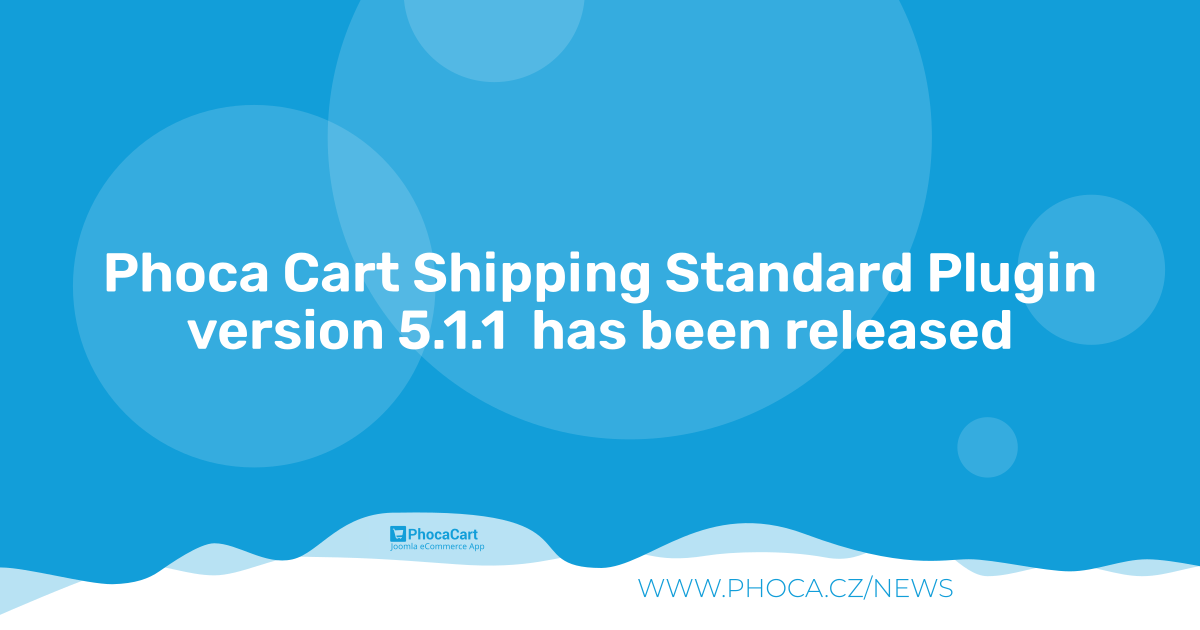
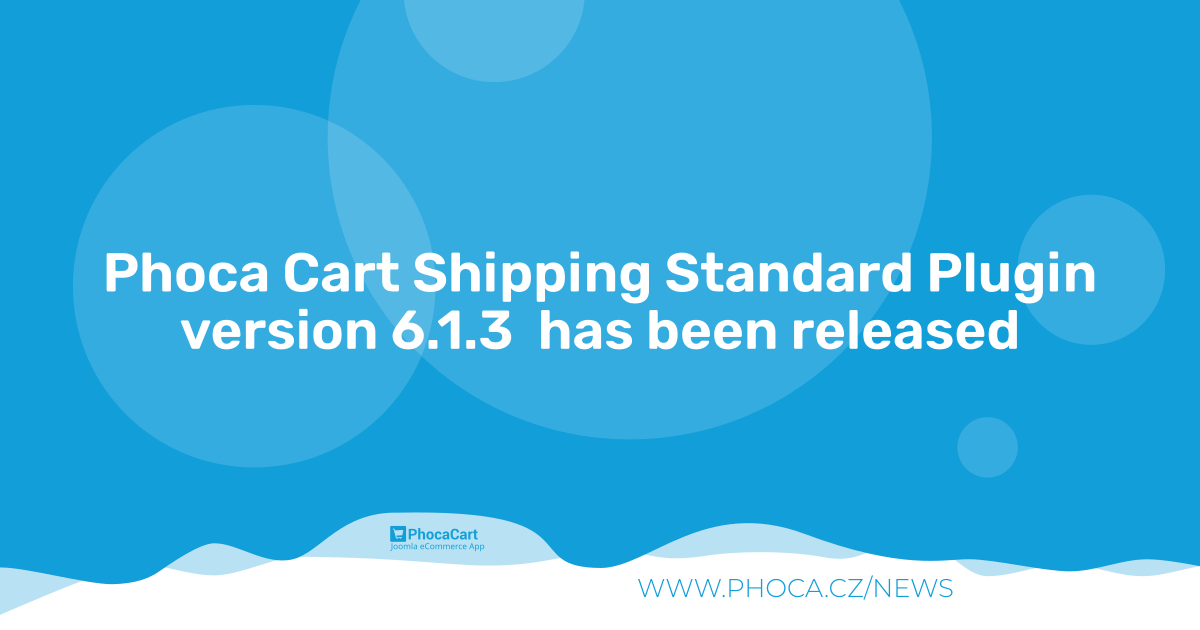
6.1.3

Changed region(s): [[0.1542, 0.4825, 0.8633, 0.573]]

diff --git a/shipping_standard.php b/shipping_standard.php
@@ -21,6 +21,7 @@ JLoader::registerPrefix('Phocacart', JPATH_ADMINISTRATOR . '/components/com_phoc
 class plgPCSShipping_Standard extends CMSPlugin
 {
 	protected $name 	= 'shipping_standard';
+	protected $autoloadLanguage = true;
 
 	function __construct(& $subject, $config) {
 		parent :: __construct($subject, $config);

diff --git a/README.MD b/README.MD
@@ -20,81 +20,69 @@ Our compliance with the principles of free and open-source software is establish
 
 *This repository is a shared community resource dedicated to the global open-source ecosystem.*
 
+### Community Feedback & Contributions
 
-## Project page
+We welcome your feedback and active involvement. You can join the development and follow the progress on public, independent GitHub pages at [https://github.com/PhocaCz](https://github.com/PhocaCz).
+Any feedback, bug reports, feature suggestions, or code improvements can be submitted transparently via **GitHub Issues** or **Pull Requests** within the respective repository.
 
-[Phoca Cart Shipping Standard Plugin](https://www.phoca.cz/phocacart-extensions/2-plugins/6-shipping-standard-plugin)
+### Accompanying External Resources
 
-[Phoca Cart Info Page](https://www.phoca.cz/project/phocacart-joomla-ecommerce)
+If you need additional information beyond this GitHub repository, further documentation, updates, and community channels are available on the following external websites:
 
+#### External Project Information
 
-
-## Documentation
-
-[Documentation](https://www.phoca.cz/documentation/category/115-phoca-cart)
-
-
-
-
-
-## Support
-
-[Phoca Forum](https://www.phoca.cz/forum)
-
-:bell: [Phoca Forum RSS](https://www.phoca.cz/forum/app.php/feed)
+- [Phoca Cart Shipping Standard Plugin](https://www.phoca.cz/phocacart-extensions/2-plugins/6-shipping-standard-plugin)
+- [Phoca Cart Info Page](https://www.phoca.cz/project/phocacart-joomla-ecommerce)
+- [Project is listed on Joomla Extensions Directory](https://extensions.joomla.org/)
+- [Project is listed on Phoca download directory](https://www.phoca.cz/download)
 
 
+#### External Documentation
 
-## News
-
-[Phoca News](https://www.phoca.cz/news)
-
-:bell: [Phoca News RSS](https://www.phoca.cz/news?format=feed&type=rss)
-
-:bell: [Phoca Latest Releases RSS](https://www.phoca.cz/download/feed/111?format=feed&type=rss)
+- [Documentation](https://www.phoca.cz/documentation/category/115-phoca-cart)
 
 
+#### External Community Support
 
-## Demo
+- [Phoca Forum](https://www.phoca.cz/forum)
+- [Joomla Forum](https://forum.joomla.org/)
+- [Joomlaportal.cz Forum - Czech](https://www.joomlaportal.cz/forum)
+- [Joomla.de Supportforum - German](https://forum.joomla.de/)
+- :bell: [Phoca Forum RSS](https://www.phoca.cz/forum/app.php/feed)
 
-[Joomla! - Phoca Cart Demo](https://www.phoca.cz/phocacartdemo/)
 
-[Joomla! - Phoca Cart - Phoca Premiere Template Demo](https://www.phoca.cz/phocacartdemo/premiere/)
+#### External News & Feeds
+
+- [Phoca News](https://www.phoca.cz/news)
+- [Joomlaportal.cz News](https://www.joomlaportal.cz/novinky)
+- :bell: [Phoca News RSS](https://www.phoca.cz/news?format=feed&type=rss)
+- :bell: [Phoca Latest Releases RSS](https://www.phoca.cz/download/feed/111?format=feed&type=rss)
 
 
+#### Demo
 
-## Version (Joomla! 3.x)
+- [Joomla! - Phoca Cart Demo](https://www.phoca.cz/phocacartdemo/)
+- [Joomla! - Phoca Cart - Phoca Premiere Template Demo](https://www.phoca.cz/phocacartdemo/premiere/)
 
+### Version (Joomla! 3.x - no longer supported)
 3.5.8
-
-## Version (Joomla! 4.x)
-
+### Version (Joomla! 4.x - no longer supported)
 4.0.12
-
-## Version (Joomla! 5.x)
-
+### Version (Joomla! 5.x - no longer supported)
 5.2.3
+### Version (Joomla! 6.x)
+6.1.3
 
-
-
-## License
+### License
 
 GNU/GPL
 
-
-
 This project is open source project - feel free to contribute! Thank you.
 
-
-
-## Social Media
+### Social Media
 
 - [Phoca on Facebook](https://www.facebook.com/Phoca.cz)
-
 - [Phoca on X (Twitter)](https://twitter.com/PhocaCz)
-
 - [Phoca on YouTube](https://www.youtube.com/user/phocavideos)
-
 - [Phoca on GitHub](https://github.com/PhocaCz)
-
 - [Phoca on Reddit](https://www.reddit.com/user/PhocaCz)

diff --git a/FOSS.md b/FOSS.md
@@ -1,0 +1,13 @@
+Free and Open Source Software (FOSS) Declaration
+
+This project is developed, distributed, and maintained strictly as **Free and Open Source Software (FOSS)**. It is provided entirely outside the course of any commercial activity as an independent public resource.
+
+Our compliance with the principles of free and open-source software is established by the following structural and operational guidelines:
+
+* **Strictly Non-Commercial & Public Good:** This software is provided 100% free of charge. No commercial entities control or fund this repository, and there are no commercial monetization models, paid subscriptions, or premium paywalls associated with this codebase.
+* **Independent Volunteer Contributions:** The development, maintenance, and testing of this extension are driven entirely by independent, voluntary contributions from the global community.
+* **No Commercial Technical Support:** Technical support is not provided as a paid commercial service by the maintainers of this repository. Community assistance is available on a voluntary, non-binding basis via public forums.
+* **No Proprietary Lock-in:** The software is licensed under the copyleft GNU General Public License (GPL). You have absolute freedom to run, study, share, modify, and redistribute the code.
+* **Decentralized Infrastructure:** This codebase is hosted in a public, transparent repository on GitHub to foster open collaborative development and public peer review, ensuring safety and quality through community vigilance.
+
+*This repository is a shared community resource dedicated to the global open-source ecosystem.*